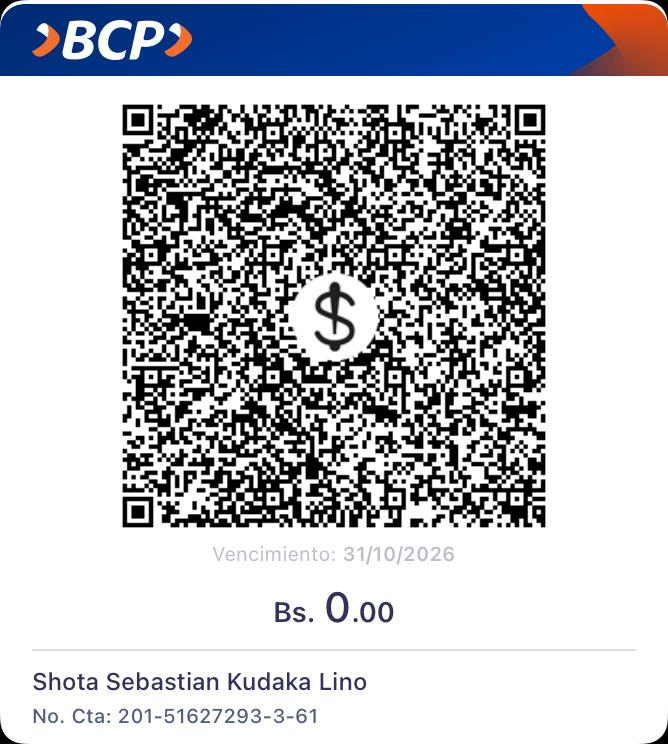
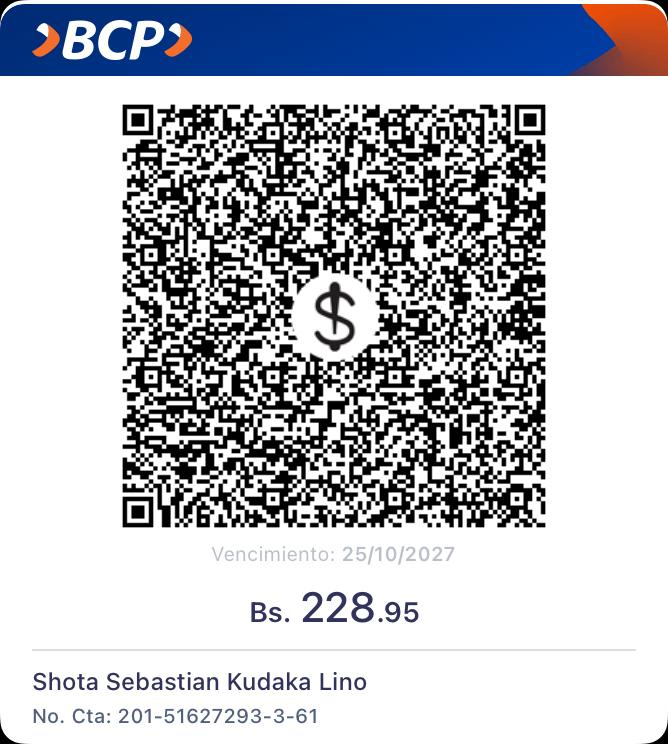
feat(checkout): add BCP Simple QR method with Bs 228.95 preset, account copy and dual payment support

Changed region(s): [[0.1796, 0.1237, 0.8383, 0.8347]]

diff --git a/index.html b/index.html
@@ -719,12 +719,12 @@
           <button onclick="toggleFaq(4)" class="w-full p-4 sm:p-5 text-left flex items-center justify-between gap-4 font-bold text-white text-sm hover:text-brand-yellow transition-colors">
             <span class="flex items-center gap-2">
               <span class="text-brand-yellow font-mono">04.</span>
-              ¿Cómo se confirma el pago en Binance?
+              ¿Cómo se realiza el pago (QR Simple Bolivia o Binance)?
             </span>
             <span id="faq-icon-4" class="text-gray-400 transition-transform duration-200 text-lg">↓</span>
           </button>
           <div id="faq-answer-4" class="faq-answer px-4 sm:px-5 pb-5 text-xs sm:text-sm text-gray-300 leading-relaxed border-t border-brand-border/40 pt-3">
-            Aceptamos pago directo vía <strong>Binance Pay (UID: 1049392123)</strong> con 0% de comisiones entre usuarios de Binance, o transferencia directa de $19 USDT en redes <strong>BNB Smart Chain (BEP20)</strong> o <strong>Polygon</strong>. Al completar el envío, introduces tu ID de pago o TxID en el modal y la plataforma valida y dispara automáticamente la descarga del paquete completo.
+            En Bolivia puedes pagar directamente escaneando el <strong>QR Simple oficial BCP por Bs. 228.95</strong> (compatible con cualquier banco boliviano: BCP, Yape, BNB, Unión, Mercantil, etc.) con 0% de comisiones y acreditación en segundos. A nivel internacional aceptamos <strong>Binance Pay (UID: 1049392123)</strong> por 19 USDT o transferencia USDT en redes BEP20 y Polygon. Al validar tu comprobante en el modal, se habilita inmediatamente la descarga completa.
           </div>
         </div>
 
@@ -733,47 +733,97 @@
 
   </main>
 
-  <!-- Checkout / Payment Modal with Binance Pay -->
+  <!-- Checkout / Payment Modal with QR BCP and Binance Pay -->
   <div id="checkoutModal" class="fixed inset-0 bg-black/85 backdrop-blur-md hidden z-50 flex items-center justify-center p-4 overflow-y-auto">
     <div class="bg-brand-card border border-brand-border rounded-2xl max-w-lg w-full p-6 sm:p-8 relative shadow-2xl my-8">
       <button onclick="closeCheckout()" class="absolute top-4 right-4 text-gray-400 hover:text-white w-8 h-8 rounded-full bg-white/5 flex items-center justify-center transition" aria-label="Cerrar">
         <svg class="w-4 h-4" viewBox="0 0 24 24" fill="none" stroke="currentColor" stroke-width="2"><line x1="18" y1="6" x2="6" y2="18"/><line x1="6" y1="6" x2="18" y2="18"/></svg>
       </button>
 
-      <div class="text-center mb-6">
+      <div class="text-center mb-5">
         <div class="w-12 h-12 rounded-2xl bg-brand-yellow/10 border border-brand-yellow/30 mx-auto flex items-center justify-center text-brand-yellow mb-3 shadow-lg shadow-brand-yellow/10">
           <svg class="w-6 h-6" viewBox="0 0 24 24" fill="none" stroke="currentColor" stroke-width="2"><path d="M12 2L2 7l10 5 10-5-10-5zM2 17l10 5 10-5M2 12l10 5 10-5"/></svg>
         </div>
         <h3 class="text-2xl font-black text-white tracking-tight">Desbloqueo Suite Pro</h3>
-        <p class="text-xs text-gray-400 mt-1">Liquidación directa a través del ecosistema Binance</p>
+        <p class="text-xs text-gray-400 mt-1">Liquidación vía QR Simple Bolivia o Ecosistema Binance</p>
       </div>
 
       <!-- Price Box -->
-      <div class="bg-[#08090C] border border-brand-border rounded-xl p-4 mb-5 flex justify-between items-center">
+      <div class="bg-[#08090C] border border-brand-border rounded-xl p-4 mb-4 flex justify-between items-center">
         <div>
           <span class="text-[11px] text-gray-400 block uppercase font-mono">Total a liquidar</span>
-          <span class="text-2xl sm:text-3xl font-black text-white font-mono">19.00 <span class="text-brand-yellow">USDT</span></span>
+          <span class="text-2xl sm:text-3xl font-black text-white font-mono">Bs. 228.95 <span class="text-xs text-brand-yellow font-normal">/ 19.00 USDT</span></span>
         </div>
         <span class="text-[11px] bg-emerald-500/10 text-emerald-400 border border-emerald-500/20 px-3 py-1 rounded-full font-bold flex items-center gap-1.5">
           <svg class="w-3.5 h-3.5 text-emerald-400" viewBox="0 0 24 24" fill="none" stroke="currentColor" stroke-width="2"><polyline points="20 6 9 17 4 12"/></svg> Licencia Vitalicia
         </span>
       </div>
 
-      <!-- Tabs: Method 1 vs Method 2 -->
-      <div class="flex gap-2 mb-4 p-1 bg-[#08090C] rounded-xl border border-brand-border">
-        <button id="tabBtnPay" onclick="switchCheckoutTab('pay')" class="flex-1 py-2 text-xs font-bold rounded-lg transition bg-brand-yellow text-black">
-          Binance Pay (UID)
+      <!-- Tabs: Method 1 vs Method 2 vs Method 3 -->
+      <div class="flex gap-1.5 mb-4 p-1 bg-[#08090C] rounded-xl border border-brand-border">
+        <button id="tabBtnBcp" onclick="switchCheckoutTab('bcp')" class="flex-1 py-2 text-[11px] sm:text-xs font-bold rounded-lg transition bg-brand-yellow text-black flex items-center justify-center gap-1">
+          <svg class="w-3.5 h-3.5" viewBox="0 0 24 24" fill="none" stroke="currentColor" stroke-width="2"><rect x="3" y="3" width="7" height="7"/><rect x="14" y="3" width="7" height="7"/><rect x="14" y="14" width="7" height="7"/><rect x="3" y="14" width="7" height="7"/></svg> QR Simple (BCP)
         </button>
-        <button id="tabBtnCrypto" onclick="switchCheckoutTab('crypto')" class="flex-1 py-2 text-xs font-bold rounded-lg transition text-gray-400 hover:text-white">
-          Red Cripto (BEP20 / Polygon)
+        <button id="tabBtnPay" onclick="switchCheckoutTab('pay')" class="flex-1 py-2 text-[11px] sm:text-xs font-bold rounded-lg transition text-gray-400 hover:text-white flex items-center justify-center gap-1">
+          Binance Pay
+        </button>
+        <button id="tabBtnCrypto" onclick="switchCheckoutTab('crypto')" class="flex-1 py-2 text-[11px] sm:text-xs font-bold rounded-lg transition text-gray-400 hover:text-white flex items-center justify-center gap-1">
+          Red Cripto
         </button>
       </div>
 
-      <!-- Method 1: Binance Pay / UID -->
-      <div id="methodPay" class="space-y-4 text-xs">
+      <!-- Method 1: QR Simple BCP Bolivia -->
+      <div id="methodBcp" class="space-y-3 text-xs">
+        <div class="bg-[#08090C] border border-brand-yellow/40 p-4 rounded-xl">
+          <div class="flex items-center justify-between mb-3">
+            <span class="text-brand-yellow font-bold uppercase tracking-wider text-[10px] sm:text-[11px]">MÉTODO OFICIAL BOLIVIA (0% COMISIÓN)</span>
+            <span class="text-[10px] bg-emerald-500/10 text-emerald-400 border border-emerald-500/20 px-2 py-0.5 rounded font-mono font-bold">Vence 25/10/2027</span>
+          </div>
+
+          <!-- QR Code Display Container -->
+          <div class="bg-white rounded-xl p-3 max-w-[210px] mx-auto shadow-2xl border-2 border-brand-yellow/60 flex flex-col items-center">
+            <img src="qr_bcp.png" alt="QR Simple BCP Bs 228.95" class="w-full h-auto object-contain rounded-lg">
+            <span class="text-[10px] text-gray-900 font-black font-mono mt-1 text-center">MONTO EXACTO: Bs. 228.95</span>
+          </div>
+
+          <!-- Account Details Card -->
+          <div class="bg-[#12151D] p-3 rounded-lg border border-brand-border mt-3 space-y-1.5">
+            <div class="flex justify-between items-center text-[11px]">
+              <span class="text-gray-400 font-mono">Banco Destino:</span>
+              <span class="text-white font-bold">Banco de Crédito (BCP)</span>
+            </div>
+            <div class="flex justify-between items-center text-[11px]">
+              <span class="text-gray-400 font-mono">Titular:</span>
+              <span class="text-white font-bold">Shota Sebastian Kudaka Lino</span>
+            </div>
+            <div class="flex justify-between items-center text-[11px]">
+              <span class="text-gray-400 font-mono">Monto Precargado:</span>
+              <span class="text-brand-yellow font-mono font-black text-xs sm:text-sm">Bs. 228.95</span>
+            </div>
+            <div class="flex items-center justify-between pt-1.5 border-t border-brand-border/60">
+              <div>
+                <span class="text-[10px] text-gray-400 block font-mono">Nº CUENTA BCP:</span>
+                <span class="text-white font-mono text-xs font-bold tracking-wide" id="bcpAccountText">201-51627293-3-61</span>
+              </div>
+              <button onclick="copyBcpAccount()" class="bg-brand-yellow hover:bg-yellow-400 text-black px-2.5 py-1 rounded-lg text-[11px] font-bold transition flex items-center gap-1 shadow-sm">
+                <svg class="w-3.5 h-3.5" viewBox="0 0 24 24" fill="none" stroke="currentColor" stroke-width="2"><rect x="9" y="9" width="13" height="13" rx="2" ry="2"/><path d="M5 15H4a2 2 0 0 1-2-2V4a2 2 0 0 1 2-2h9a2 2 0 0 1 2 2v1"/></svg> Copiar Cuenta
+              </button>
+            </div>
+          </div>
+
+          <div class="mt-2.5 text-[11px] text-gray-300 space-y-1">
+            <p>1. Abre tu app bancaria boliviana (BCP, Yape, BNB, Unión, etc.).</p>
+            <p>2. Escanea este <strong>QR Simple</strong>. El monto de <strong class="text-brand-yellow font-mono">Bs. 228.95</strong> se fija automáticamente.</p>
+            <p>3. Tras confirmar, introduce el <strong>Número de Comprobante / Referencia</strong> abajo.</p>
+          </div>
+        </div>
+      </div>
+
+      <!-- Method 2: Binance Pay / UID -->
+      <div id="methodPay" class="space-y-4 text-xs hidden">
         <div class="bg-[#08090C] border border-brand-yellow/40 p-4 rounded-xl">
           <div class="flex items-center justify-between mb-2">
-            <span class="text-brand-yellow font-bold uppercase tracking-wider text-[11px]">MÉTODO RECOMENDADO (0% COMISIONES)</span>
+            <span class="text-brand-yellow font-bold uppercase tracking-wider text-[11px]">INTERNACIONAL (0% COMISIONES)</span>
             <span class="text-[10px] bg-brand-yellow/10 text-brand-yellow px-2 py-0.5 rounded font-mono font-bold">INSTANTÁNEO</span>
           </div>
           
@@ -795,7 +845,7 @@
         </div>
       </div>
 
-      <!-- Method 2: Crypto Transfer -->
+      <!-- Method 3: Crypto Transfer -->
       <div id="methodCrypto" class="space-y-4 text-xs hidden">
         <div class="bg-[#08090C] border border-brand-border p-4 rounded-xl">
           <span class="text-gray-300 font-bold block mb-2">TRANSFERENCIA DIRECTA EN USDT</span>
@@ -822,12 +872,12 @@
       </div>
 
       <!-- Confirmation Form -->
-      <div class="mt-6 pt-4 border-t border-brand-border">
+      <div class="mt-5 pt-4 border-t border-brand-border">
         <label class="block text-xs font-bold text-gray-300 mb-2 uppercase tracking-wide">
           Confirma tu Pago para Descargar Inmediatamente:
         </label>
         <div class="flex gap-2">
-          <input type="text" id="txInput" placeholder="TxID / Pay ID de Binance (ej. 1049392123 o Hash)"
+          <input type="text" id="txInput" placeholder="Nº Comprobante BCP / TxID / Pay ID de Binance"
             class="flex-1 bg-[#08090C] border border-brand-border rounded-xl px-3 py-2.5 text-xs text-white focus:outline-none focus:border-brand-yellow font-mono">
           <button onclick="confirmPayment()" class="bg-gradient-to-r from-brand-yellow to-amber-400 hover:from-yellow-400 hover:to-brand-yellow text-black font-extrabold px-4 py-2.5 rounded-xl text-xs transition shadow-md">
             Validar y Descargar
@@ -1093,21 +1143,46 @@
 
     // Checkout Tab Switcher
     function switchCheckoutTab(tab) {
+      const tabBcp = document.getElementById('tabBtnBcp');
       const tabPay = document.getElementById('tabBtnPay');
       const tabCrypto = document.getElementById('tabBtnCrypto');
+      const methodBcp = document.getElementById('methodBcp');
       const methodPay = document.getElementById('methodPay');
       const methodCrypto = document.getElementById('methodCrypto');
 
-      if (tab === 'pay') {
-        tabPay.className = 'flex-1 py-2 text-xs font-bold rounded-lg transition bg-brand-yellow text-black';
-        tabCrypto.className = 'flex-1 py-2 text-xs font-bold rounded-lg transition text-gray-400 hover:text-white';
-        methodPay.classList.remove('hidden');
-        methodCrypto.classList.add('hidden');
+      const activeClass = 'flex-1 py-2 text-[11px] sm:text-xs font-bold rounded-lg transition bg-brand-yellow text-black flex items-center justify-center gap-1';
+      const inactiveClass = 'flex-1 py-2 text-[11px] sm:text-xs font-bold rounded-lg transition text-gray-400 hover:text-white flex items-center justify-center gap-1';
+
+      if (tabBcp) tabBcp.className = inactiveClass;
+      if (tabPay) tabPay.className = inactiveClass;
+      if (tabCrypto) tabCrypto.className = inactiveClass;
+
+      if (methodBcp) methodBcp.classList.add('hidden');
+      if (methodPay) methodPay.classList.add('hidden');
+      if (methodCrypto) methodCrypto.classList.add('hidden');
+
+      if (tab === 'bcp') {
+        if (tabBcp) tabBcp.className = activeClass;
+        if (methodBcp) methodBcp.classList.remove('hidden');
+      } else if (tab === 'pay') {
+        if (tabPay) tabPay.className = activeClass;
+        if (methodPay) methodPay.classList.remove('hidden');
+      } else if (tab === 'crypto') {
+        if (tabCrypto) tabCrypto.className = activeClass;
+        if (methodCrypto) methodCrypto.classList.remove('hidden');
+      }
+    }
+
+    function copyBcpAccount() {
+      const cta = '201-51627293-3-61';
+      if (navigator.clipboard && window.isSecureContext) {
+        navigator.clipboard.writeText(cta).then(() => {
+          showToast('Cuenta BCP 201-51627293-3-61 copiada al portapapeles');
+        }).catch(() => {
+          fallbackCopyText(cta);
+        });
       } else {
-        tabCrypto.className = 'flex-1 py-2 text-xs font-bold rounded-lg transition bg-brand-yellow text-black';
-        tabPay.className = 'flex-1 py-2 text-xs font-bold rounded-lg transition text-gray-400 hover:text-white';
-        methodCrypto.classList.remove('hidden');
-        methodPay.classList.add('hidden');
+        fallbackCopyText(cta);
       }
     }
 
@@ -1266,13 +1341,13 @@ Portal Oficial: https://shokun123.github.io/leadrescue-ai/
       const tx = document.getElementById('txInput').value.trim();
       const status = document.getElementById('paymentStatus');
       if (!tx) {
-        status.innerText = 'Por favor ingresa tu TxID o ID de usuario de Binance Pay.';
+        status.innerText = 'Por favor ingresa tu Nº de Comprobante BCP, TxID o Pay ID.';
         status.className = 'text-[11px] text-center mt-2.5 text-red-400 font-mono';
         status.classList.remove('hidden');
         return;
       }
 
-      status.innerText = 'Verificando transacción en la red Binance...';
+      status.innerText = 'Verificando comprobante de liquidación...';
       status.className = 'text-[11px] text-center mt-2.5 text-brand-yellow animate-pulse font-mono';
       status.classList.remove('hidden');
 
@@ -1286,7 +1361,8 @@ Portal Oficial: https://shokun123.github.io/leadrescue-ai/
 # LEADRESCUE AI · SUITE PRO DE AUTOMATIZACIÓN SPEED-TO-LEAD B2B
 # ==============================================================================
 Licencia Perpetua Comercial desbloqueada.
-Verificación de Pago: Binance UID 1049392123 | TxID: ${tx}
+Verificación de Pago: Referencia/TxID: ${tx}
+Métodos Habilitados: QR Simple BCP (Bs. 228.95) | Binance Pay UID: 1049392123 (19 USDT)
 Fecha: ${new Date().toISOString()}
 
 ¡Felicidades por eliminar la fuga de capital de tu negocio!
